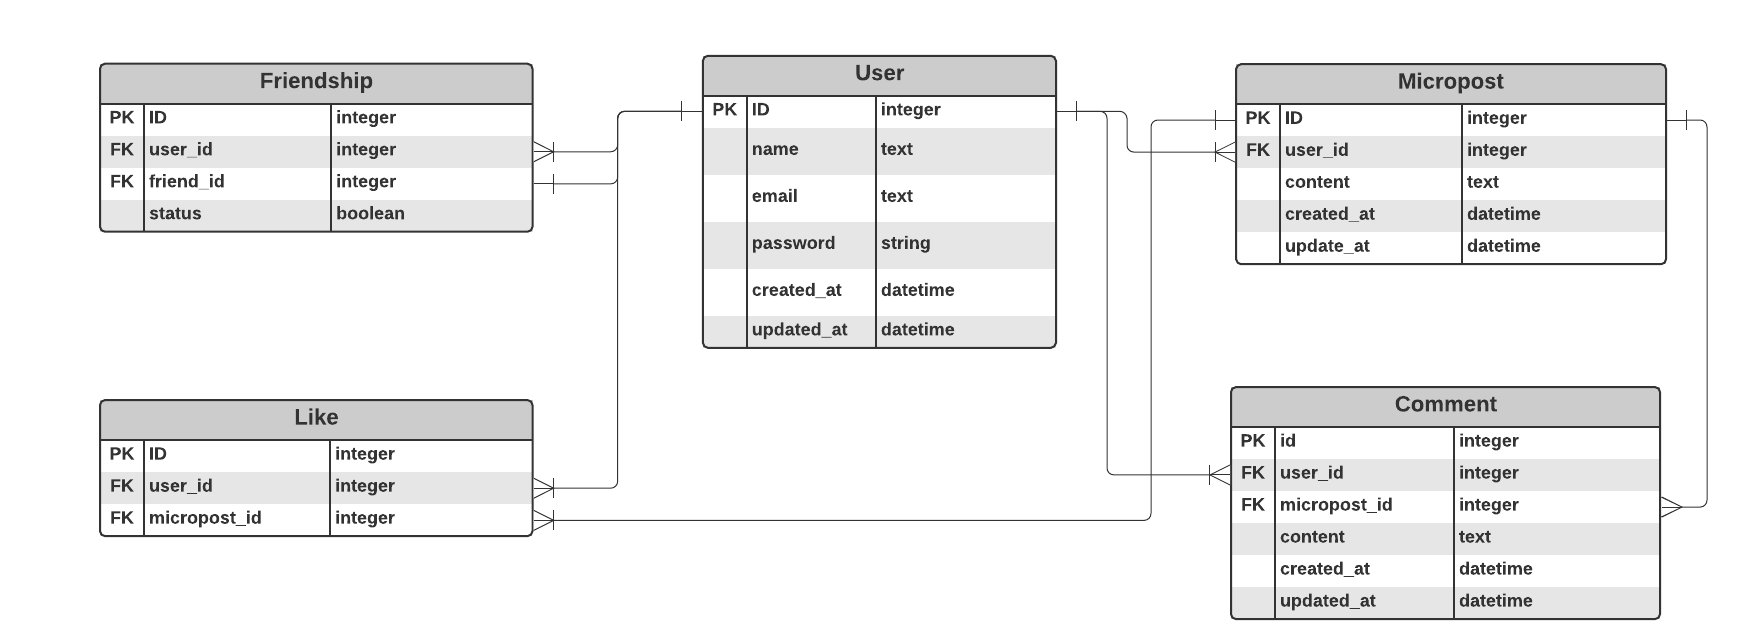
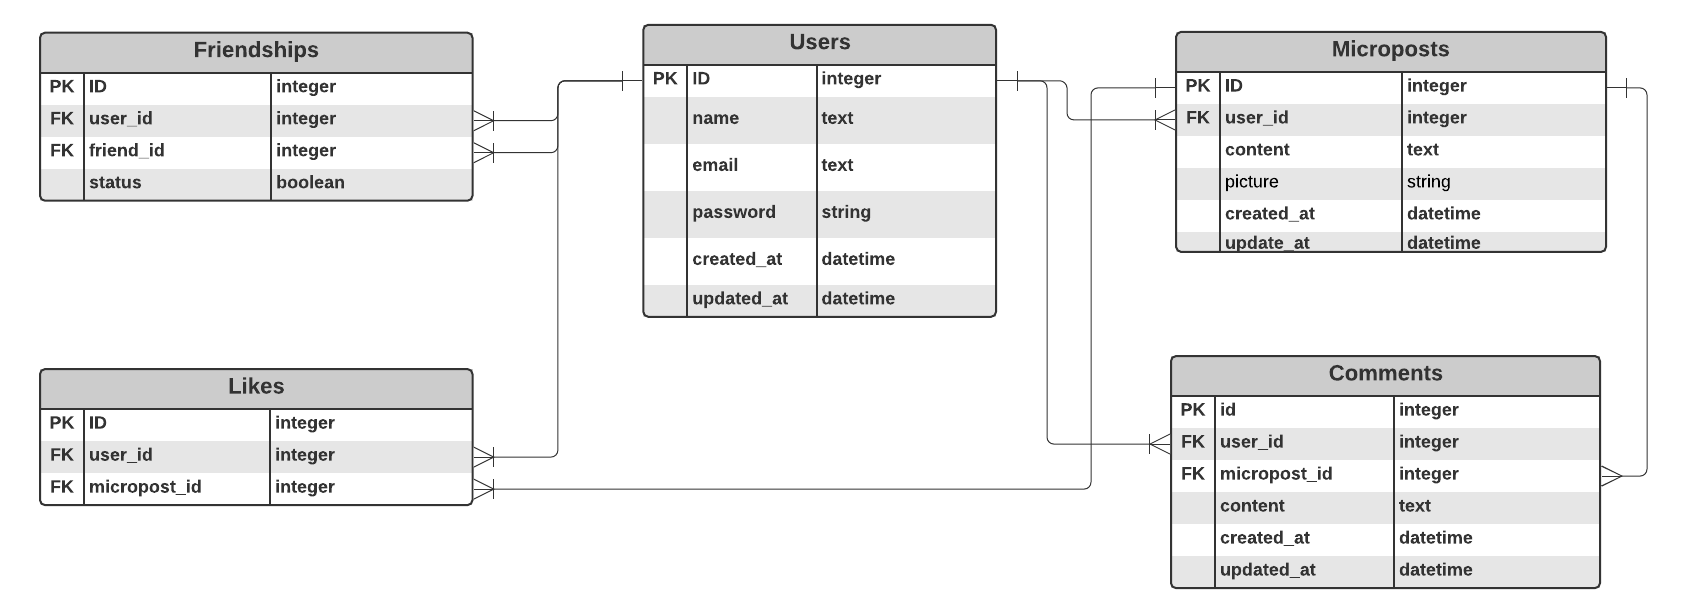
updated ERD image

diff --git a/README.md b/README.md
@@ -1,17 +1,32 @@
-# README
+# Microverse Project Title - Final Project [Collaborative Project]
+Ruby on Rails
 
-This README would normally document whatever steps are necessary to get the
-application up and running.
+### Introduction.
+This project requests you to build a Facebook-like social network application.
 
-Things you may want to cover:
+Full task description: https://www.theodinproject.com/courses/ruby-on-rails/lessons/final-project
 
-* Ruby version
+### Microverse Adjustments
 
-* System dependencies
+* Skip points 16 about setting up a mailer - you will be able to do it if you complete extra task in next steps (which is optional).
 
-* Configuration
+* According to requirements first you should: “Think through the data architecture required to make this work. There are a lot of models and a lot of associations, so take the time to plan out your approach.” Keep that in your mind.
 
-* Database creation
+### Project specific
+
+###  Ruby version
+
+rbenv 2.6.5
+
+###  System dependencies
+
+Rails 6.0.1
+
+Yarn 1.19.1
+
+Ubuntu 18.04 & below
+
+###  Database creation
 
 * Database initialization
 
@@ -23,6 +38,39 @@ Things you may want to cover:
 
 * ...
 
-Deployment
-feature-branch
-Add-erd
+### Milestone 1: Prepare data architecture documentation
+
+Create Entity Relationship Diagram (ERD) for the following tables and its content.
+
+1. Friendship
+ID: Integer
+Status: boolean
+user_id: Integer
+friend_id: Integer
+
+
+2. User
+ID: Integer
+name: text
+email: text
+password: text
+created_at: datetime
+updated_at: datetime
+
+3. Micro-Post
+ID: Integer
+user_id: Integer
+CONTENT: text
+
+4. Like
+ID: Integer
+user_ID: Integer
+micropost_ID: Integer
+
+5. Comment
+ID: Integer
+micropost_id: Integer
+user_id: Integer
+CONTENT: test
+created_at: datetime
+updated_at: datetime
